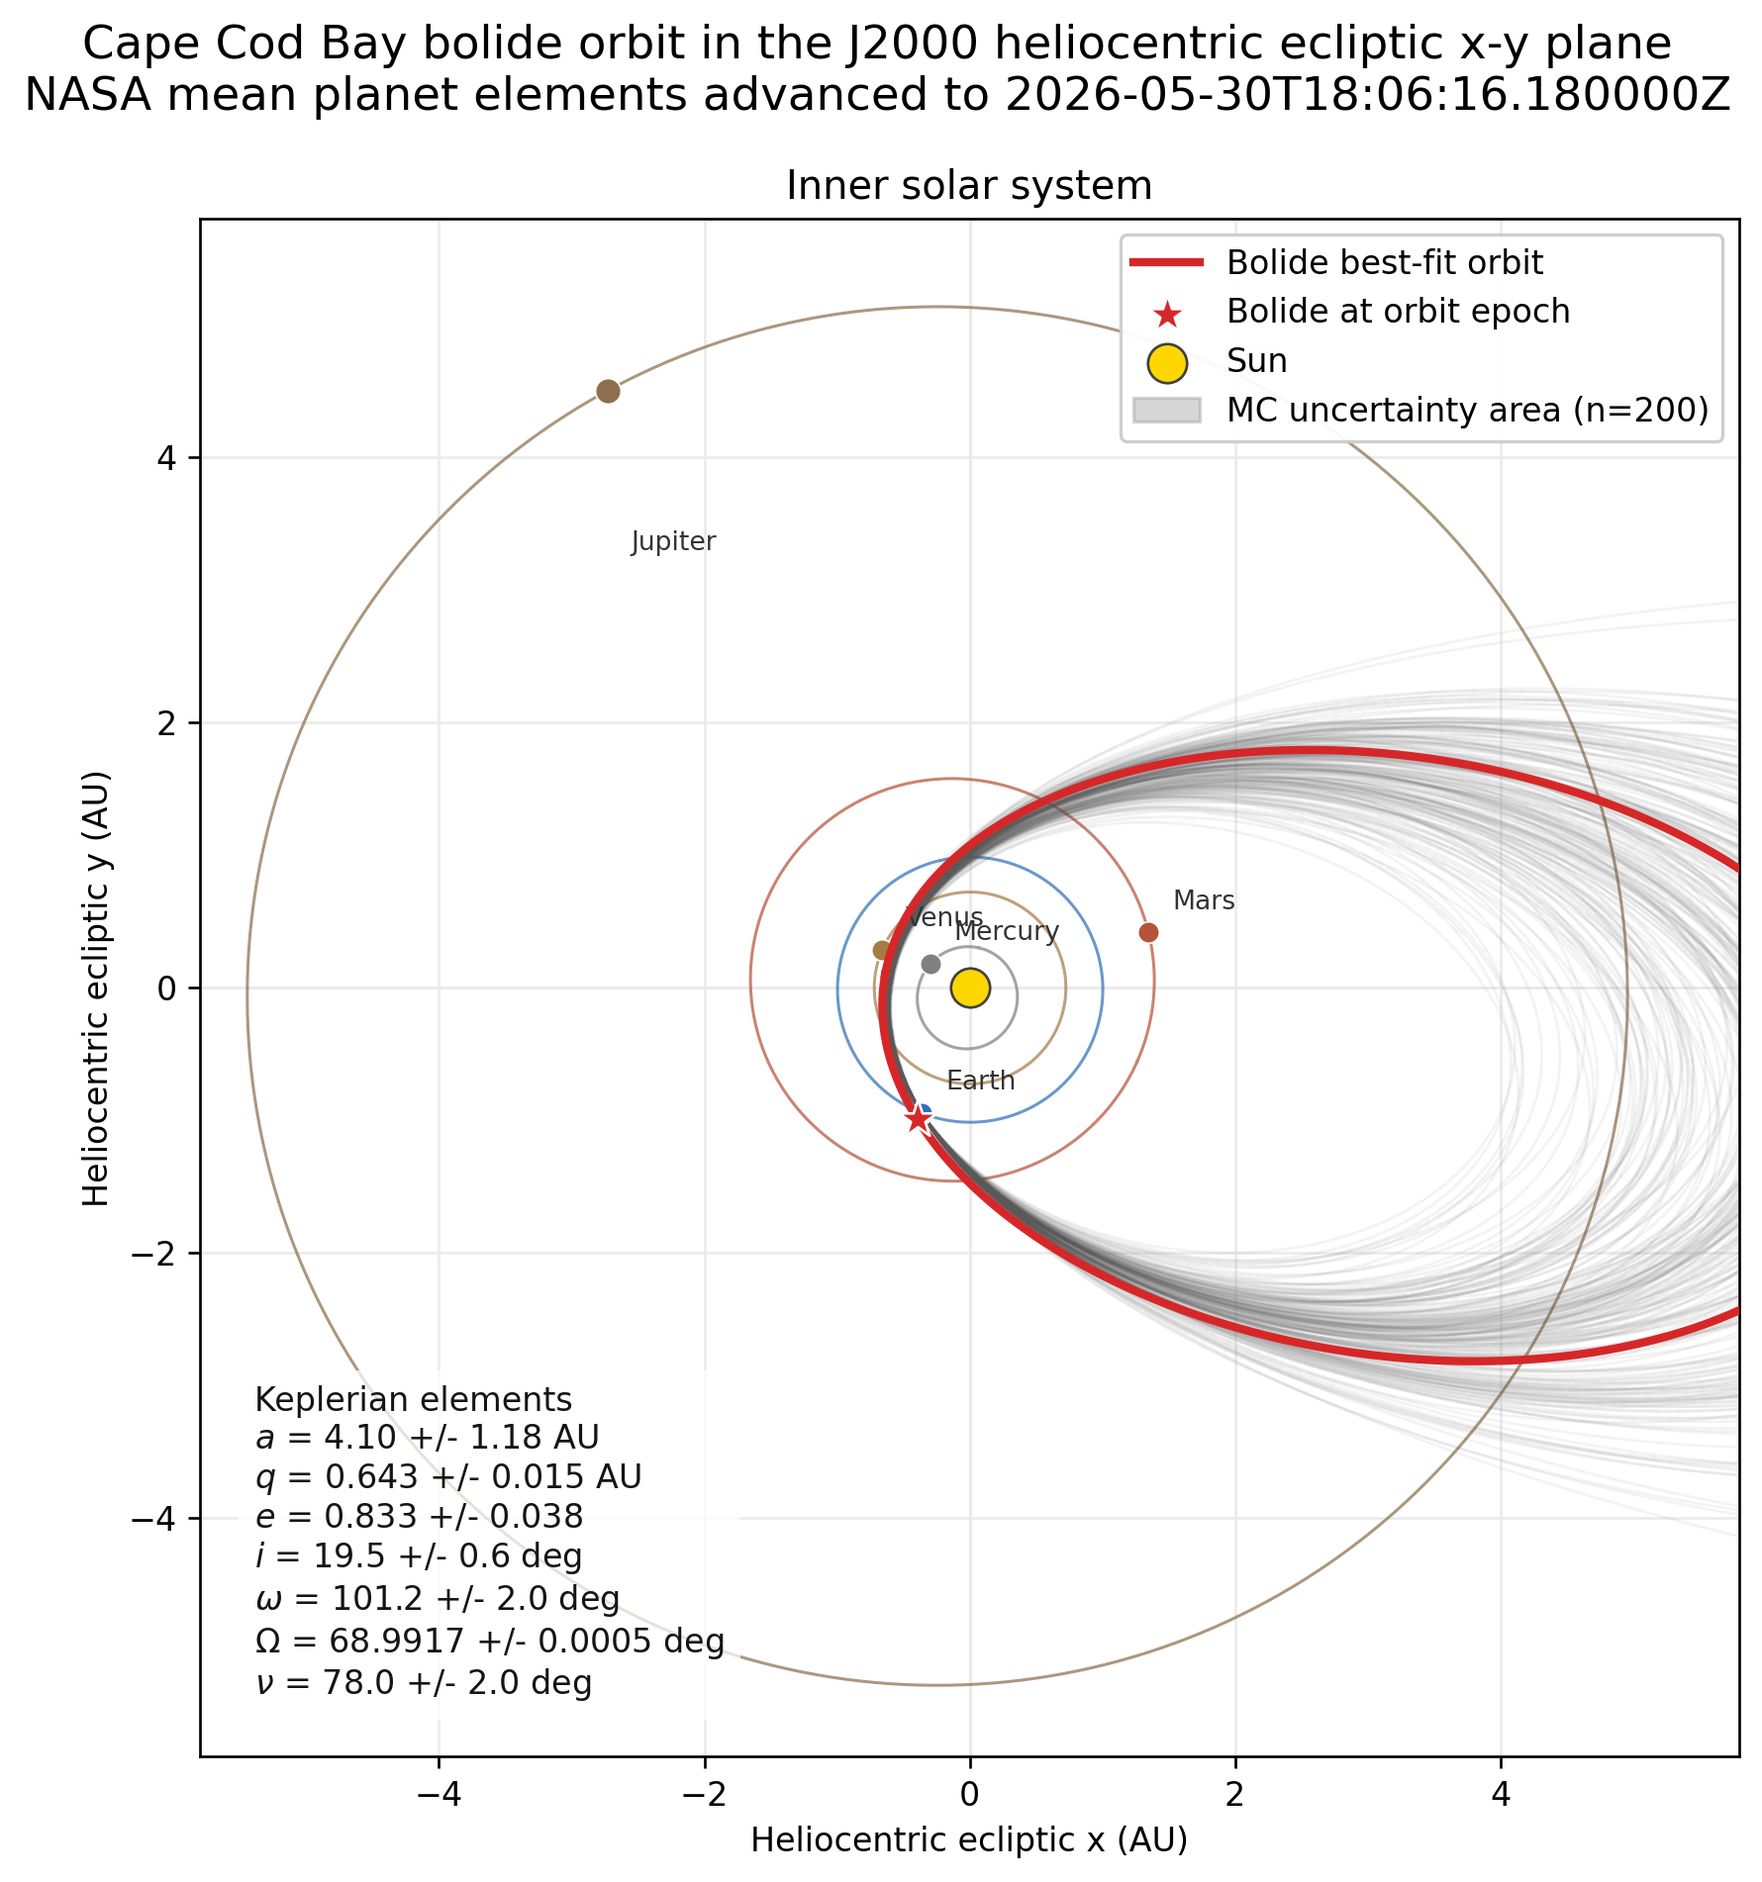
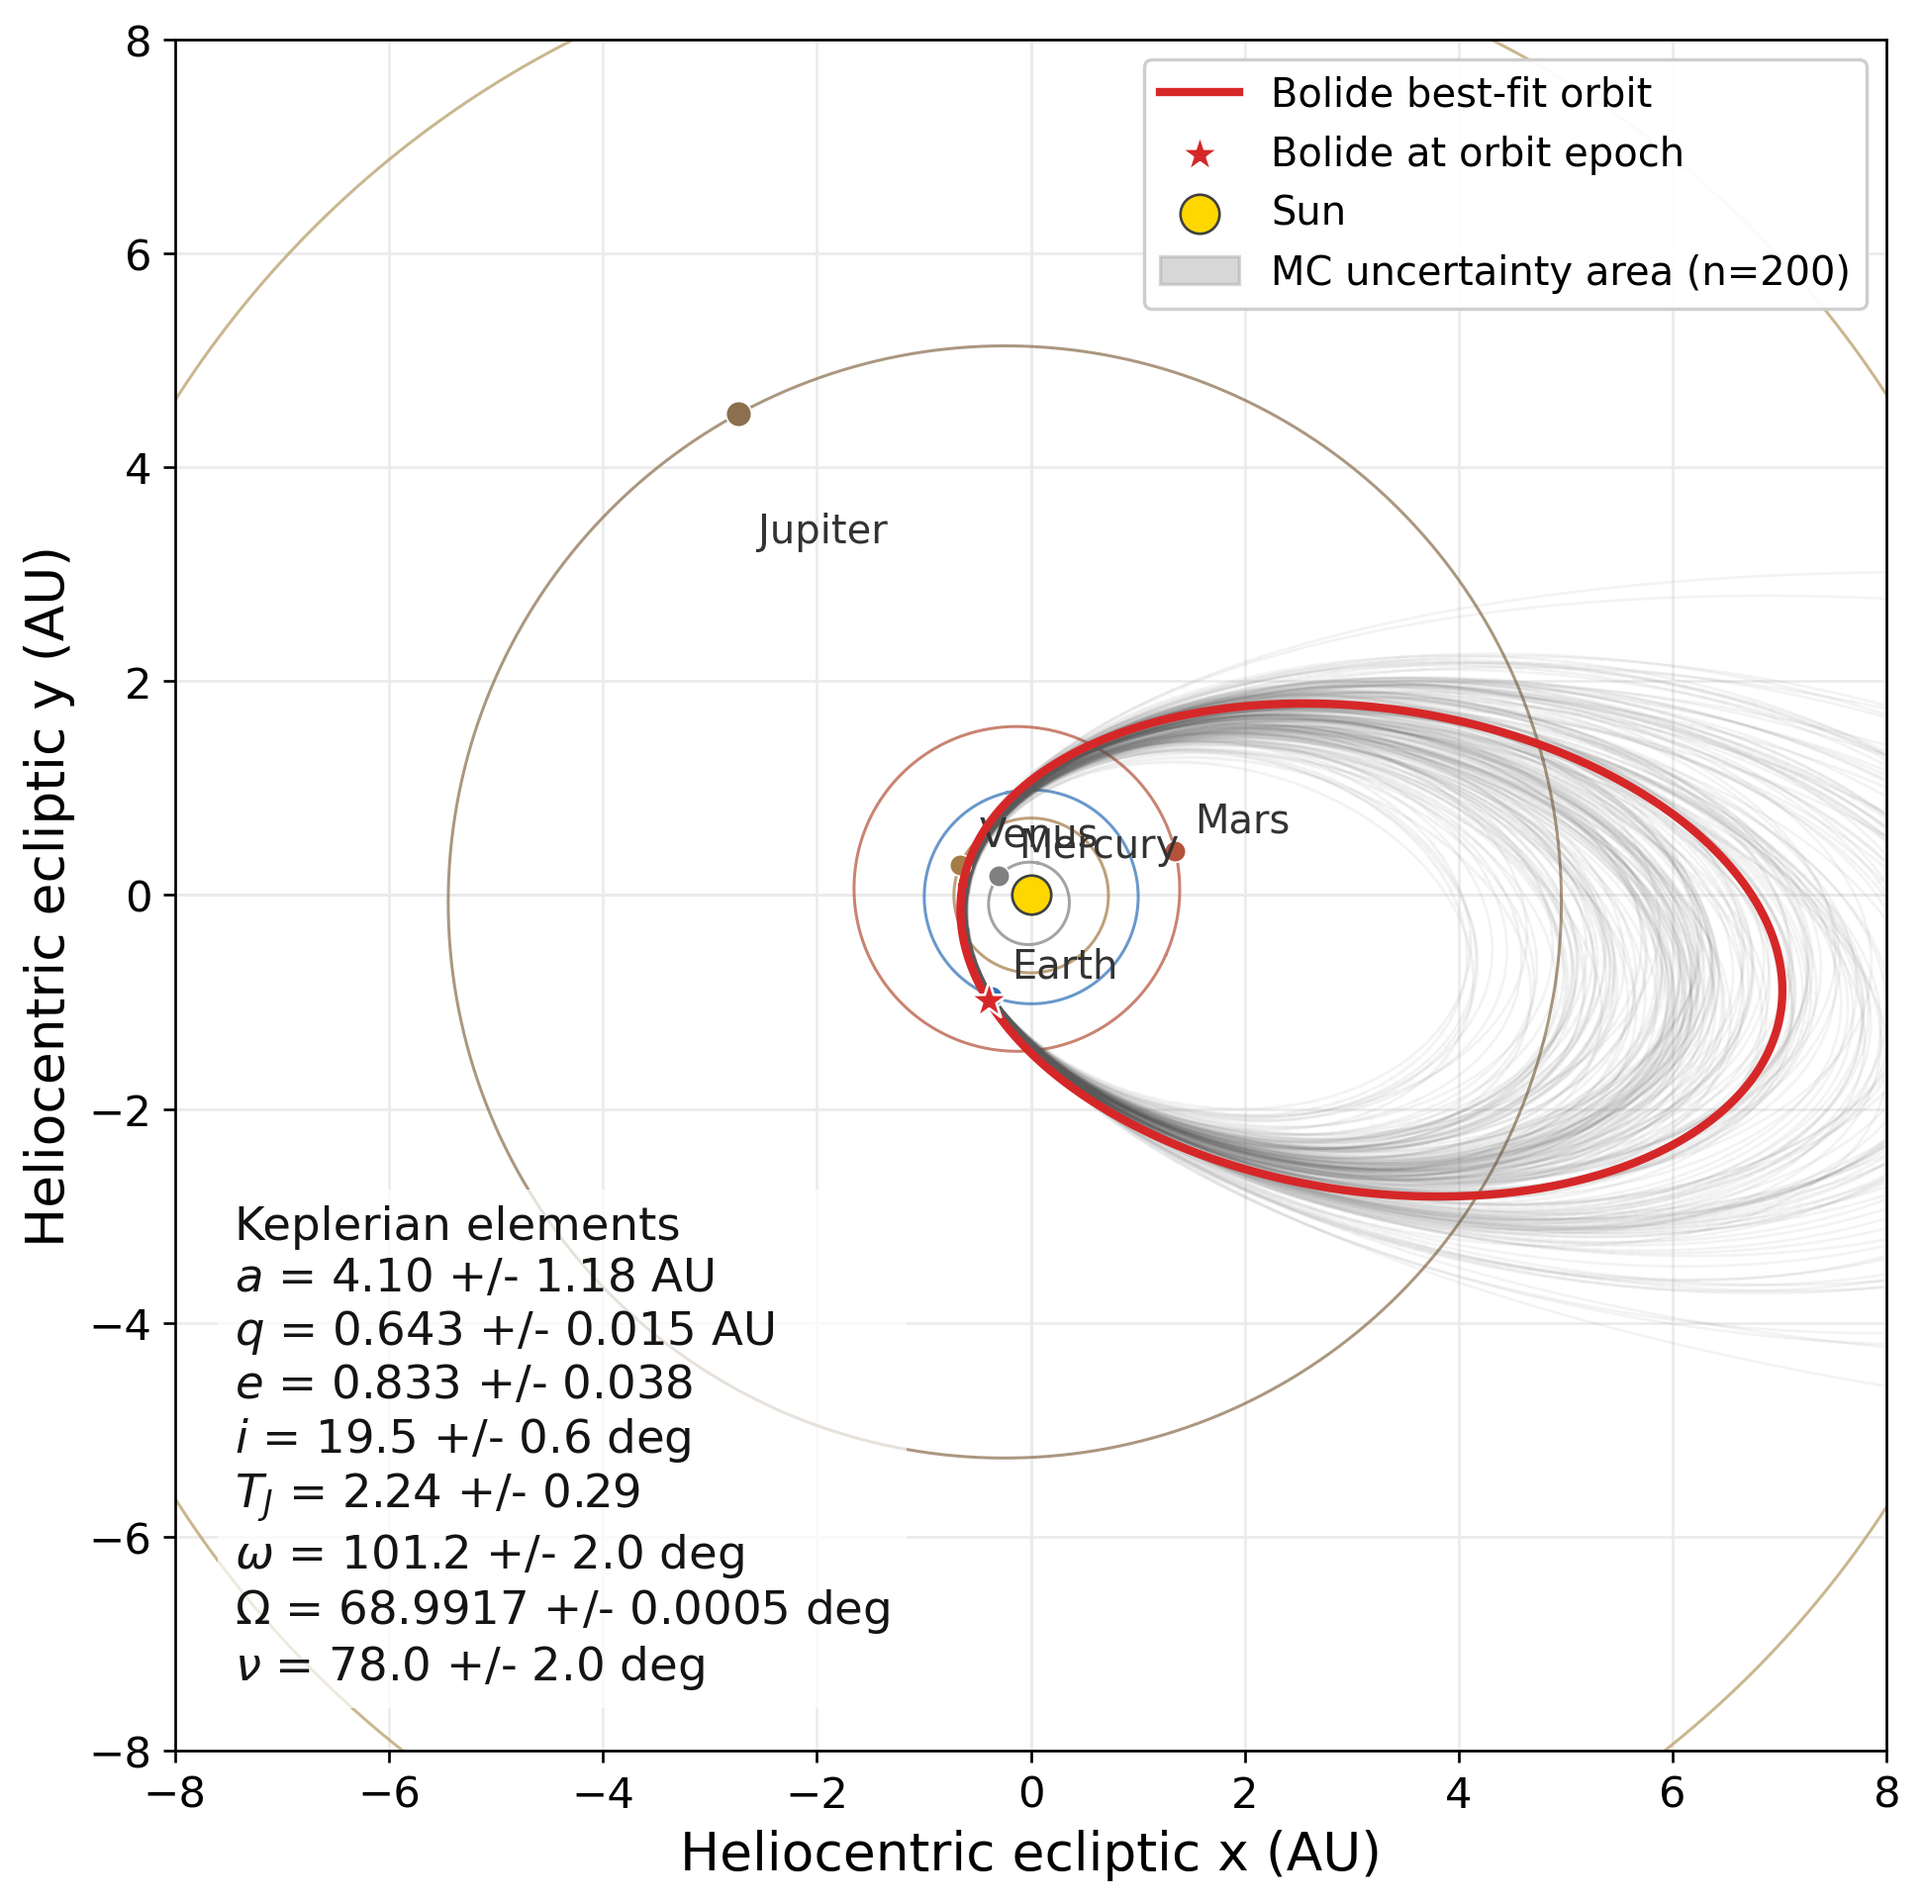
Update orbit xy figure styling

diff --git a/plot_orbit_xy.py b/plot_orbit_xy.py
@@ -17,7 +17,7 @@ from astropy.time import Time
 AU = 1.495978707e11
 DEFAULT_ORBIT = Path("products/orbit_determination/best_fit_orbit.h5")
 DEFAULT_SAMPLES = Path("products/orbit_determination/best_fit_orbit.h5")
-DEFAULT_OUT = Path("plots/orbit_xy_bolide.png")
+DEFAULT_OUT = Path("reports/figures/orbit_xy_bolide.png")
 
 J2000 = Time("2000-01-01T12:00:00", scale="tdb")
 
@@ -143,12 +143,15 @@ def kepler_annotation(sample_kepler: np.ndarray) -> str:
     a_au = kep[0] / AU
     e = kep[1]
     q_au = a_au * (1.0 - e)
+    jupiter_a_au = PLANETS["Jupiter"]["a"]
+    tj = jupiter_a_au / a_au + 2.0 * np.cos(np.deg2rad(kep[2])) * np.sqrt((a_au / jupiter_a_au) * (1.0 - e * e))
 
     rows = [
         (r"$a$", "AU", a_au, False, 2),
         (r"$q$", "AU", q_au, False, 3),
         (r"$e$", "", e, False, 3),
         (r"$i$", "deg", kep[2], True, 1),
+        (r"$T_J$", "", tj, False, 2),
         (r"$\omega$", "deg", kep[3], True, 1),
         (r"$\Omega$", "deg", kep[4], True, 2),
         (r"$\nu$", "deg", kep[5], True, 1),
@@ -191,7 +194,7 @@ def draw_orbits(
             dy = 0.18 if py < limits[1] - 4 else -1.2
             x_text = np.clip(px + dx, limits[0] + 0.4, limits[1] - 3.0)
             y_text = np.clip(py + dy, limits[0] + 0.8, limits[1] - 0.8)
-            ax.text(x_text, y_text, name, fontsize=8, color="0.2", zorder=7, clip_on=True)
+            ax.text(x_text, y_text, name, fontsize=12, color="0.2", zorder=7, clip_on=True)
 
     finite_samples = 0
     cloud_points = []
@@ -225,7 +228,7 @@ def draw_orbits(
     return finite_samples
 
 
-def style_axis(ax, limits: tuple[float, float], title: str) -> None:
+def style_axis(ax, limits: tuple[float, float]) -> None:
     ax.axhline(0, color="0.9", lw=0.8, zorder=0)
     ax.axvline(0, color="0.9", lw=0.8, zorder=0)
     ax.set_aspect("equal", adjustable="box")
@@ -233,7 +236,6 @@ def style_axis(ax, limits: tuple[float, float], title: str) -> None:
     ax.set_ylim(*limits)
     ax.set_xlabel("Heliocentric ecliptic x (AU)")
     ax.set_ylabel("Heliocentric ecliptic y (AU)")
-    ax.set_title(title)
     ax.grid(True, color="0.92", lw=0.8)
 
 
@@ -245,7 +247,7 @@ def add_kepler_inset(ax, sample_kepler: np.ndarray) -> None:
         transform=ax.transAxes,
         ha="left",
         va="bottom",
-        fontsize=10,
+        fontsize=14,
         color="0.08",
         bbox={"facecolor": "white", "edgecolor": "none", "alpha": 0.72, "pad": 5.0},
         zorder=20,
@@ -258,14 +260,23 @@ def plot(args: argparse.Namespace) -> None:
     epoch = Time(t_ref_unix, scale="utc", format="unix")
 
     args.out.parent.mkdir(parents=True, exist_ok=True)
+    plt.rcParams.update(
+        {
+            "font.size": 14,
+            "axes.labelsize": 16,
+            "xtick.labelsize": 13,
+            "ytick.labelsize": 13,
+            "legend.fontsize": 12,
+        }
+    )
     fig, ax_inner = plt.subplots(1, 1, figsize=(8.6, 8.2))
-    finite_samples = draw_orbits(ax_inner, best, sample_kepler, epoch, (-5.8, 5.8), {"Mercury", "Venus", "Earth", "Mars", "Jupiter"})
-    style_axis(ax_inner, (-5.8, 5.8), "Inner solar system")
+    limits = (-8.0, 8.0)
+    finite_samples = draw_orbits(ax_inner, best, sample_kepler, epoch, limits, {"Mercury", "Venus", "Earth", "Mars", "Jupiter"})
+    style_axis(ax_inner, limits)
     add_kepler_inset(ax_inner, sample_kepler)
-    fig.suptitle(f"Cape Cod Bay bolide orbit in the J2000 heliocentric ecliptic x-y plane\nNASA mean planet elements advanced to {epoch_utc}", fontsize=14)
     ax_inner.fill_between([], [], [], color="0.55", alpha=0.34, label=f"MC uncertainty area (n={finite_samples})")
     ax_inner.legend(loc="upper right", frameon=True, framealpha=0.95)
-    fig.subplots_adjust(left=0.12, right=0.97, bottom=0.09, top=0.88)
+    fig.subplots_adjust(left=0.13, right=0.97, bottom=0.10, top=0.98)
     fig.savefig(args.out, dpi=240, bbox_inches="tight")
     plt.close(fig)
     print(f"Wrote {args.out}")
